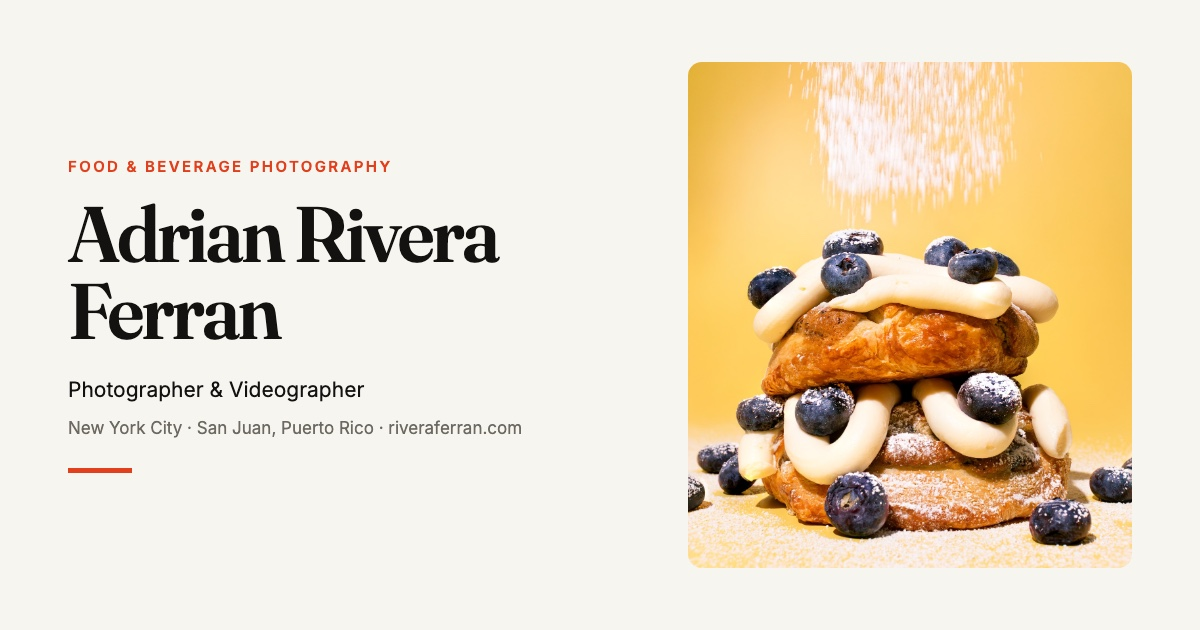
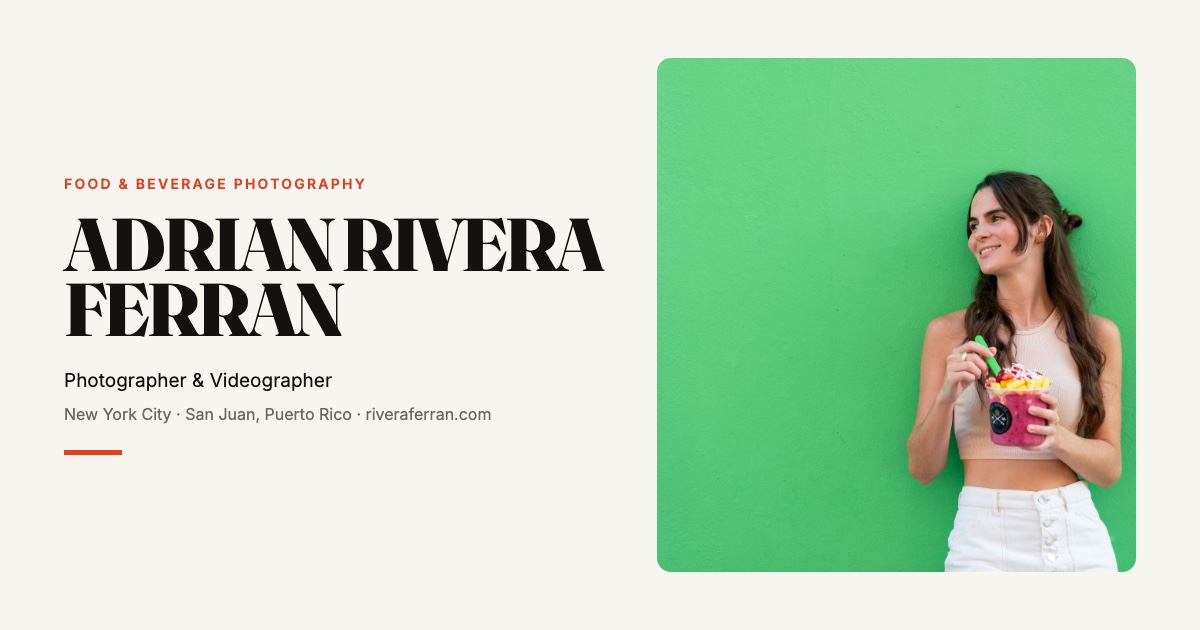
Install the masked-subject masthead as the homepage hero
Full-bleed photograph with the name passing BEHIND its subject, which is the
effect from the Webflow reference: back plate (z0) -> scrim (1) -> name (2) ->
cut-out subject (3) -> small labels (4). Both image layers share the same cover
geometry so the cut-out lands exactly on the subject in the back photo.

- Subject isolated with macOS Vision (not a hand mask), shipped as a 62KB WebP
  with alpha instead of an 863KB PNG
- Name is a two-line lockup sized to fill the measure exactly: font-size is
  (measure / 7.263), 7.263 being the measured width of "ADRIAN RIVERA" per 1px
  of Fraunces 800 uppercase
- Labels and photo are content in site-config.json (hero_image, hero_cutout,
  masthead_labels), so the copy stays JSON-only
- Nav is fixed, transparent and white over the photo on the homepage only
  (body.has-masthead), returning to the paper style past the masthead; other
  pages keep the light nav
- Removed the old light hero markup and all its CSS; regolith og-cover card
  rebuilt from the new hero photo

Verified: 11 site tests, plus a layout check at four viewport widths - the name
fills 100% of the measure without overflowing, layers stay aligned, no sideways
scroll, nav transparent at the top and solid past the hero.

diff --git a/assets/css/styles.css b/assets/css/styles.css
@@ -159,58 +159,102 @@ button.nav-toggle {
 section { padding: 104px 0; }
 section + section { border-top: 1px solid var(--line-soft); }
 
-.hero { padding: 68px 0 0; }
-.hero h1 { margin-top: 18px; }
-.hero-grid {
-  display: grid;
-  grid-template-columns: 1fr auto;
-  grid-template-rows: auto 1fr;
-  grid-template-areas:
-    "head  media"
-    "copy  media";
-  align-items: start;
-  column-gap: 60px;
-  row-gap: 34px;
-  margin-top: 48px;
+/* ==========================================================================
+   Masthead — full-bleed photograph with the name passing BEHIND the subject.
+   Layers: back photo (0) -> scrim (1) -> name (2) -> cut-out subject (3)
+           -> small labels (4).
+   Both image layers use the same cover geometry, so the cut-out lands exactly
+   over the subject in the back photo.
+   ========================================================================== */
+.masthead {
+  position: relative;
+  height: 100vh;
+  min-height: 520px;
+  overflow: hidden;
+  isolation: isolate;
+  background: #131210;
 }
-.hero-head { grid-area: head; }
-.hero-copy { grid-area: copy; }
-.hero-copy .role { font-size: 19px; line-height: 1.45; color: var(--ink); }
-.hero-copy .lead { color: var(--muted); margin-top: 18px; max-width: 42ch; }
-.hero-cta { display: flex; flex-wrap: wrap; align-items: center; gap: 26px; margin-top: 32px; }
-
-.hero-media {
-  grid-area: media;
-  justify-self: end;
-  min-width: 0;
-  margin: 0;
+.masthead .layer {
+  position: absolute;
+  inset: 0;
+  width: 100%;
+  height: 100%;
+  object-fit: cover;
+  object-position: 50% 50%;
 }
-.hero-media img {
-  display: block;
-  width: auto;
-  height: auto;
-  max-width: 100%;
-  max-height: clamp(340px, calc(100vh - 240px), 660px);
-  border-radius: var(--radius);
-  background: var(--line-soft);
+.masthead .back { z-index: 0; }
+.masthead .scrim {
+  z-index: 1;
+  background: linear-gradient(180deg, rgba(12,11,10,.58) 0%, rgba(12,11,10,.16) 34%,
+                              rgba(12,11,10,.22) 68%, rgba(12,11,10,.70) 100%);
 }
-.hero-media figcaption {
-  margin-top: 14px;
-  font-size: 13.5px;
-  color: var(--muted);
+.masthead .front { z-index: 3; }
+.masthead .stack {
+  position: relative;
+  height: 100%;
+  max-width: var(--wrap);
+  margin: 0 auto;
+  padding: 0 var(--gut);
   display: flex;
-  gap: 9px;
-  align-items: baseline;
+  flex-direction: column;
+  justify-content: center;
+  gap: clamp(10px, 1.2vw, 18px);
 }
-.hero-media figcaption::before {
-  content: "";
-  flex: 0 0 auto;
-  width: 6px;
-  height: 6px;
-  border-radius: 50%;
-  background: var(--accent);
-  transform: translateY(-2px);
+.masthead .name {
+  position: relative;
+  z-index: 2;
+  margin: 0;
+  font-family: var(--font-display);
+  font-weight: 800;
+  font-variation-settings: "opsz" 144;
+  letter-spacing: -0.035em;
+  line-height: 0.86;
+  text-transform: uppercase;
+  color: #fff;
+  /* "ADRIAN RIVERA" measures 7.263 x font-size, so this fills the measure */
+  font-size: min(calc((min(1240px, 100vw) - 2 * var(--gut)) / 7.263), 240px);
 }
+.masthead .name .last { display: block; }
+.masthead .labels {
+  position: relative;
+  z-index: 4;
+  display: flex;
+  justify-content: space-between;
+  gap: 24px;
+  font-size: clamp(12px, 1.06vw, 16px);
+  color: #fff;
+  text-transform: capitalize;
+  text-shadow: 0 1px 14px rgba(0,0,0,.5);
+}
+.masthead .labels span { white-space: nowrap; }
+
+/* Nav rides over the photograph, then turns solid past it */
+body.has-masthead header.site {
+  position: fixed;
+  top: 0;
+  left: 0;
+  right: 0;
+  background: transparent;
+  -webkit-backdrop-filter: none;
+  backdrop-filter: none;
+  border-bottom-color: transparent;
+}
+body.has-masthead header.site .brand { color: #fff; }
+body.has-masthead header.site nav.main a:not(.btn) { color: #fff; opacity: .88; }
+body.has-masthead header.site:not(.scrolled) .nav-toggle {
+  color: #fff;
+  border-color: rgba(255,255,255,.4);
+}
+body.has-masthead header.site nav.main.open a:not(.btn) { color: var(--ink); opacity: 1; }
+body.has-masthead header.site.scrolled {
+  background: rgba(247,245,240,.86);
+  -webkit-backdrop-filter: saturate(180%) blur(14px);
+  backdrop-filter: saturate(180%) blur(14px);
+  border-bottom-color: var(--line);
+}
+body.has-masthead header.site.scrolled .brand { color: var(--ink); }
+body.has-masthead header.site.scrolled nav.main a:not(.btn) { color: var(--ink); }
+body.has-masthead header.site.scrolled .nav-toggle { color: var(--ink); border-color: var(--line); }
 
 /* ---- Section headers ---------------------------------------------------- */
 .sec-head {
@@ -424,21 +468,13 @@ footer.site a:hover { text-decoration: underline; }
 @media (max-width: 1080px) {
   .grid { columns: 2; }
   .photos { columns: 2; }
-  .hero-grid, .about-grid, .feature { gap: 44px; }
+  .about-grid, .feature { gap: 44px; }
 }
 
 @media (max-width: 900px) {
   section { padding: 76px 0; }
-  .hero { padding: 44px 0 0; }
-  .hero-grid,
   .about-grid,
   .feature { grid-template-columns: 1fr; gap: 36px; }
-  .hero-grid {
-    grid-template-rows: auto auto auto;
-    grid-template-areas: "head" "media" "copy";
-  }
-  .hero-media { justify-self: stretch; }
-  .hero-media img { width: 100%; max-height: none; }
   .services { grid-template-columns: 1fr; gap: 0; }
   .sec-head { margin-bottom: 32px; }
   .feature { margin-bottom: 56px; }
@@ -465,9 +501,14 @@ footer.site a:hover { text-decoration: underline; }
   nav.main.open { display: flex; }
   nav.main a { padding: 14px 0; font-size: 16px; }
   nav.main a.btn { margin-top: 10px; justify-content: center; }
-  .hero-cta { gap: 20px; }
   .photos { columns: 2; column-gap: 14px; }
   .photos button.shot { margin-bottom: 14px; }
   .service { grid-template-columns: 34px 1fr; }
   section { padding: 64px 0; }
+  .masthead .name {
+    font-size: min(calc((min(1240px, 100vw) - 2 * var(--gut)) / 4.5), 86px);
+    line-height: 0.88;
+  }
+  .masthead .name .w, .masthead .name .last { display: block; }
+  .masthead .labels { flex-direction: column; gap: 6px; font-size: 12px; }
 }

diff --git a/index.html b/index.html
@@ -18,7 +18,7 @@
 <link rel="stylesheet" href="assets/css/fonts.css">
 <link rel="stylesheet" href="assets/css/styles.css">
 </head>
-<body>
+<body class="has-masthead">
 <header class="site">
   <div class="wrap">
     <a class="brand" href="index.html">Adrian Rivera Ferran</a>
@@ -32,25 +32,26 @@
 </header>
 
 <main>
-<section class="hero">
-  <div class="wrap hero-grid">
-    <div class="hero-head">
-      <p class="eyebrow">Food &amp; Beverage Photography</p>
-      <h1>Adrian<br>Rivera Ferran</h1>
+<section class="masthead">
+  <img class="layer back" src="assets/img/acai-express/01.jpg" alt="Açaí Express — model with an açaí bowl, Puerto Rico">
+  <div class="layer scrim"></div>
+
+  <div class="stack">
+    <div class="labels top">
+      <span>Food &amp; Beverage Photographer + Videographer</span>
+      <span>New York City · San Juan, Puerto Rico</span>
     </div>
-    <div class="hero-copy">
-      <p class="role">Food &amp; Beverage Photographer + Videographer<br>New York City · San Juan, Puerto Rico</p>
-      <p class="lead">Menu shots, product launches, and social video for restaurants and food brands. Stills and motion, concept through delivery.</p>
-      <p class="hero-cta">
-        <a class="btn" href="#contact">Work with me</a>
-        <a class="link-arrow" href="#work">Selected work</a>
-      </p>
+
+    <h1 class="name"><span class="w">Adrian</span> <span class="w">Rivera</span><span class="last"> Ferran</span></h1>
+
+    <div class="labels bottom">
+      <span>Menu &amp; product systems</span>
+      <span>Social video</span>
+      <span>Brand campaigns</span>
     </div>
-    <figure class="hero-media">
-      <img src="assets/img/chip-city/01.jpg" alt="Chip City × Eggo — crookie popping out of a toaster, NYC">
-      <figcaption>Chip City × Eggo — crookie popping out of a toaster, NYC</figcaption>
-    </figure>
   </div>
+
+  <img class="layer front" src="assets/img/masthead/front.webp" alt="" aria-hidden="true">
 </section>
 
 <section id="work">

diff --git a/assets/js/main.js b/assets/js/main.js
@@ -76,7 +76,7 @@ document.querySelectorAll('form.contact').forEach(function (form) {
   var reduce = window.matchMedia && window.matchMedia('(prefers-reduced-motion: reduce)').matches;
   if (reduce || !('IntersectionObserver' in window)) return;
   var targets = Array.prototype.slice.call(document.querySelectorAll(
-    '.card, .feature, .hero-media, .about-grid > *, .service, .sec-head, form.contact'
+    '.card, .feature, .about-grid > *, .service, .sec-head, form.contact'
   ));
   if (!targets.length) return;
 
@@ -124,5 +124,19 @@ document.querySelectorAll('form.contact').forEach(function (form) {
       window.clearInterval(iv);
     }
   }, 900);
+})();
+
+// Masthead: the nav rides over the photo, then turns solid past it.
+(function () {
+  var header = document.querySelector('header.site');
+  var mast = document.querySelector('.masthead');
+  if (!header || !mast) return;
+  function update() {
+    var past = window.scrollY > (mast.offsetHeight - 88);
+    header.classList.toggle('scrolled', past);
+  }
+  update();
+  window.addEventListener('scroll', update, { passive: true });
+  window.addEventListener('resize', update);
 })();
 

diff --git a/build.py b/build.py
@@ -164,12 +164,25 @@ def main():
     cards = "\n".join(card_html(p, manifest, "", numbers[p["slug"]]) for p in rest)
     parts = config["name"].split(" ", 1)
     name_html = esc(parts[0]) + "<br>" + esc(parts[1]) if len(parts) > 1 else esc(config["name"])
+    words = config["name"].split()
+    if len(words) > 1:
+        name_masthead = (" ".join('<span class="w">%s</span>' % esc(w) for w in words[:-1])
+                         + '<span class="last"> %s</span>' % esc(words[-1]))
+    else:
+        name_masthead = '<span class="w">%s</span>' % esc(config["name"])
     page = render_page("index.html.tmpl", "", config, {
         "HERO_IMAGE": esc(config["hero_image"]),
         "HERO_CAPTION": esc(config["hero_caption"]),
         "META_DESCRIPTION": esc(config["title"] + " — " + config["based"]),
         "BIO_PARAGRAPHS": bio,
         "NAME_HTML": name_html,
+        "NAME_MASTHEAD": name_masthead,
+        "HERO_CUTOUT": esc(config["hero_cutout"]),
+        "LABEL_TL": esc(config["title"]),
+        "LABEL_TR": esc(config["based"]),
+        "LABEL_B1": esc(config["masthead_labels"][0]),
+        "LABEL_B2": esc(config["masthead_labels"][1]),
+        "LABEL_B3": esc(config["masthead_labels"][2]),
         "CTA": esc(config["cta"]),
         "FEATURE": feature,
         "FEATURED_CARDS": cards,

diff --git a/README.md b/README.md
@@ -24,8 +24,21 @@ driven by CSS custom properties at the top of `assets/css/styles.css`.
   run `python3 fetch_fonts.py`.
 - **Photos are shown at their native ratios** — cards and photo grids use CSS
   masonry (`columns`), not fixed aspect-ratio boxes, so portrait food shots are not
-  cropped. The hero photograph is now also shown uncropped at its natural ratio;
-  the `--hero-aspect` property no longer exists.
+  cropped.
+- **Masthead (homepage hero)** — a full-bleed photograph with the name passing
+  BEHIND its subject. Three layers: `assets/img/<project>/NN.jpg` as the back plate,
+  the giant name, then `assets/img/masthead/front.webp` — the subject cut out with
+  alpha — sitting ON TOP of the name (`z-index: 3`). The small labels sit above
+  everything (`z-index: 4`). Both image layers use the same `cover` geometry, so the
+  cut-out lands exactly over the subject in the back photo. To change the hero photo,
+  set `hero_image` and `hero_cutout` in `site-config.json`; the cut-out is generated
+  from the photo (ask Hermes — it uses macOS Vision, not a manual mask). The name is
+  a two-line lockup sized as `min(calc((min(1240px, 100vw) - 2 * var(--gut)) / 7.263),
+  240px)` — 7.263 is the measured width of "ADRIAN RIVERA" per 1px of font size, which
+  is what makes the line fill the measure exactly. Re-measure if the name changes.
+- **Nav over the photo** — the homepage body carries `has-masthead`; that makes the
+  nav fixed, transparent and white until you scroll past the masthead, where JS adds
+  `.scrolled` and it returns to the paper style. Other pages keep the light nav.
 - **Social share card**: `assets/img/og-cover.jpg` (1200×630), referenced by the
   `og:image` tags on every page. Regenerate by rendering the card at 1200×630 and
   saving over it.
